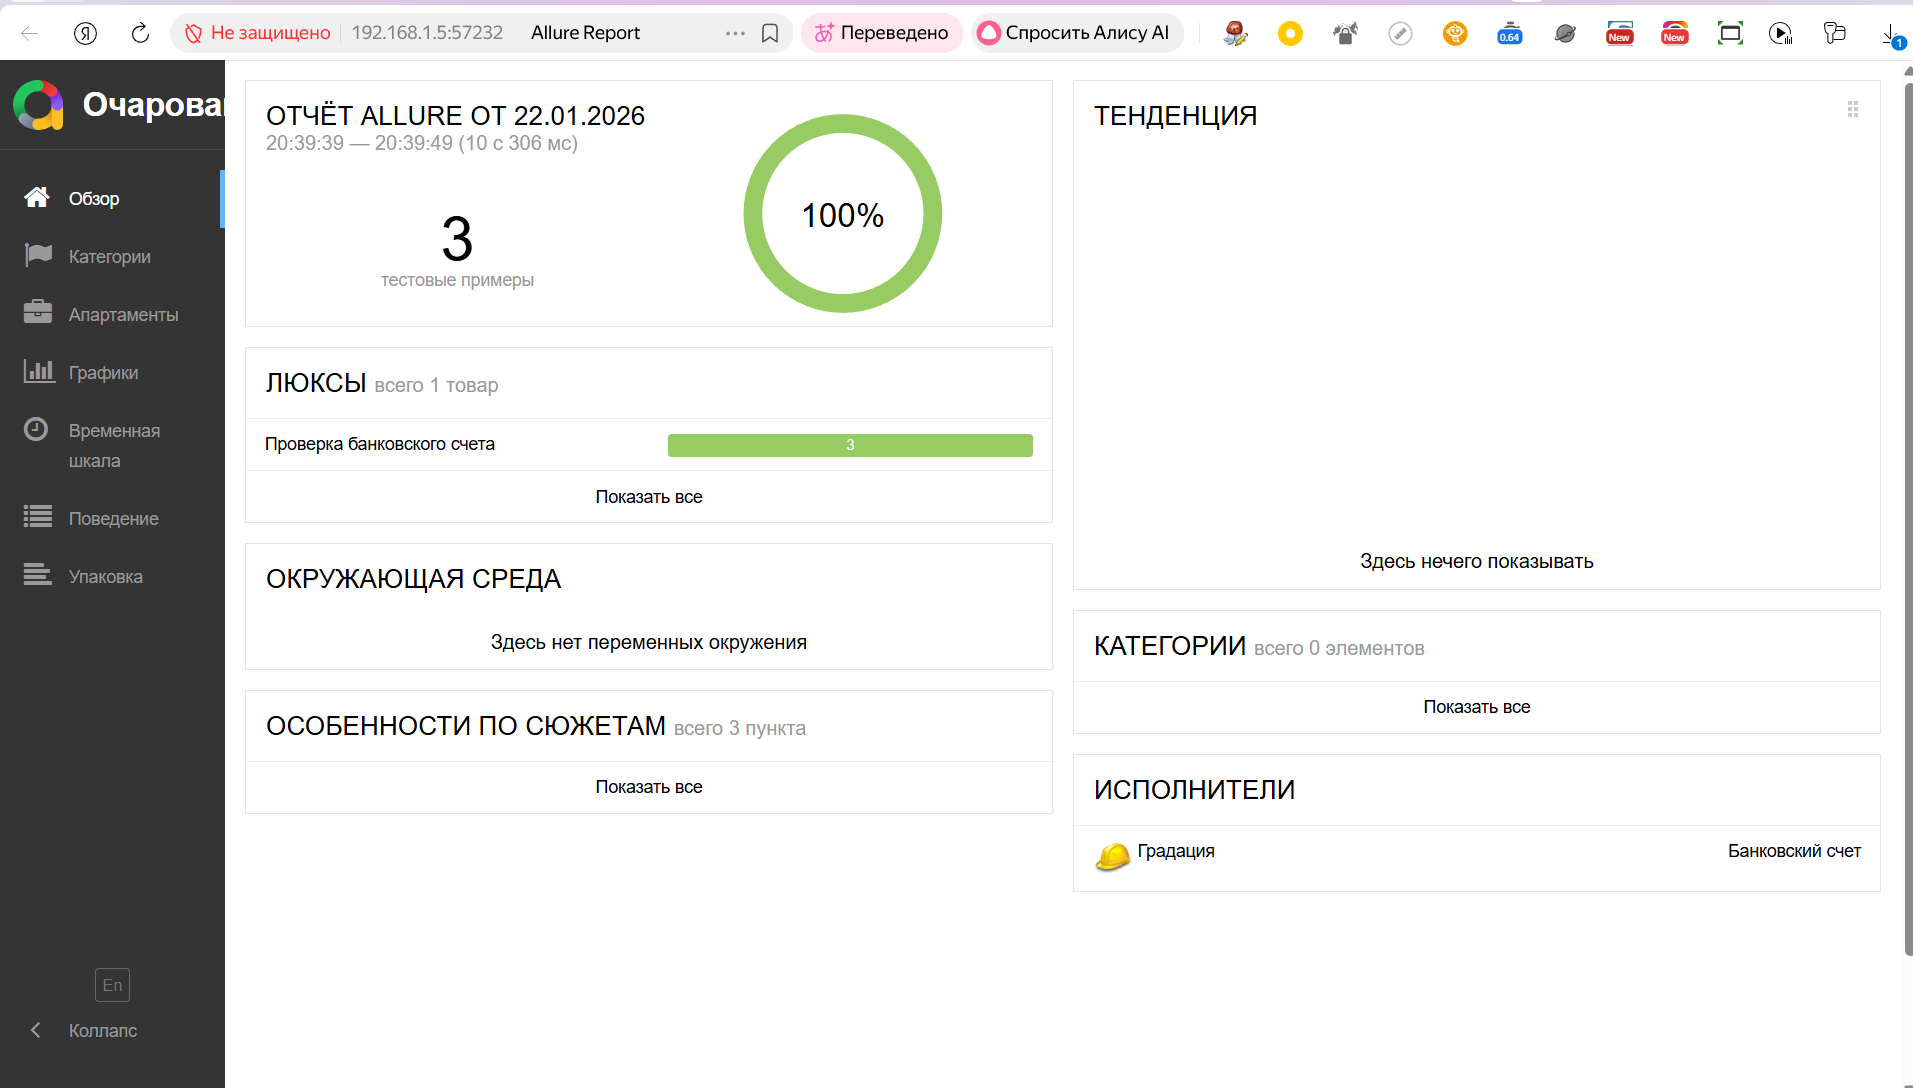
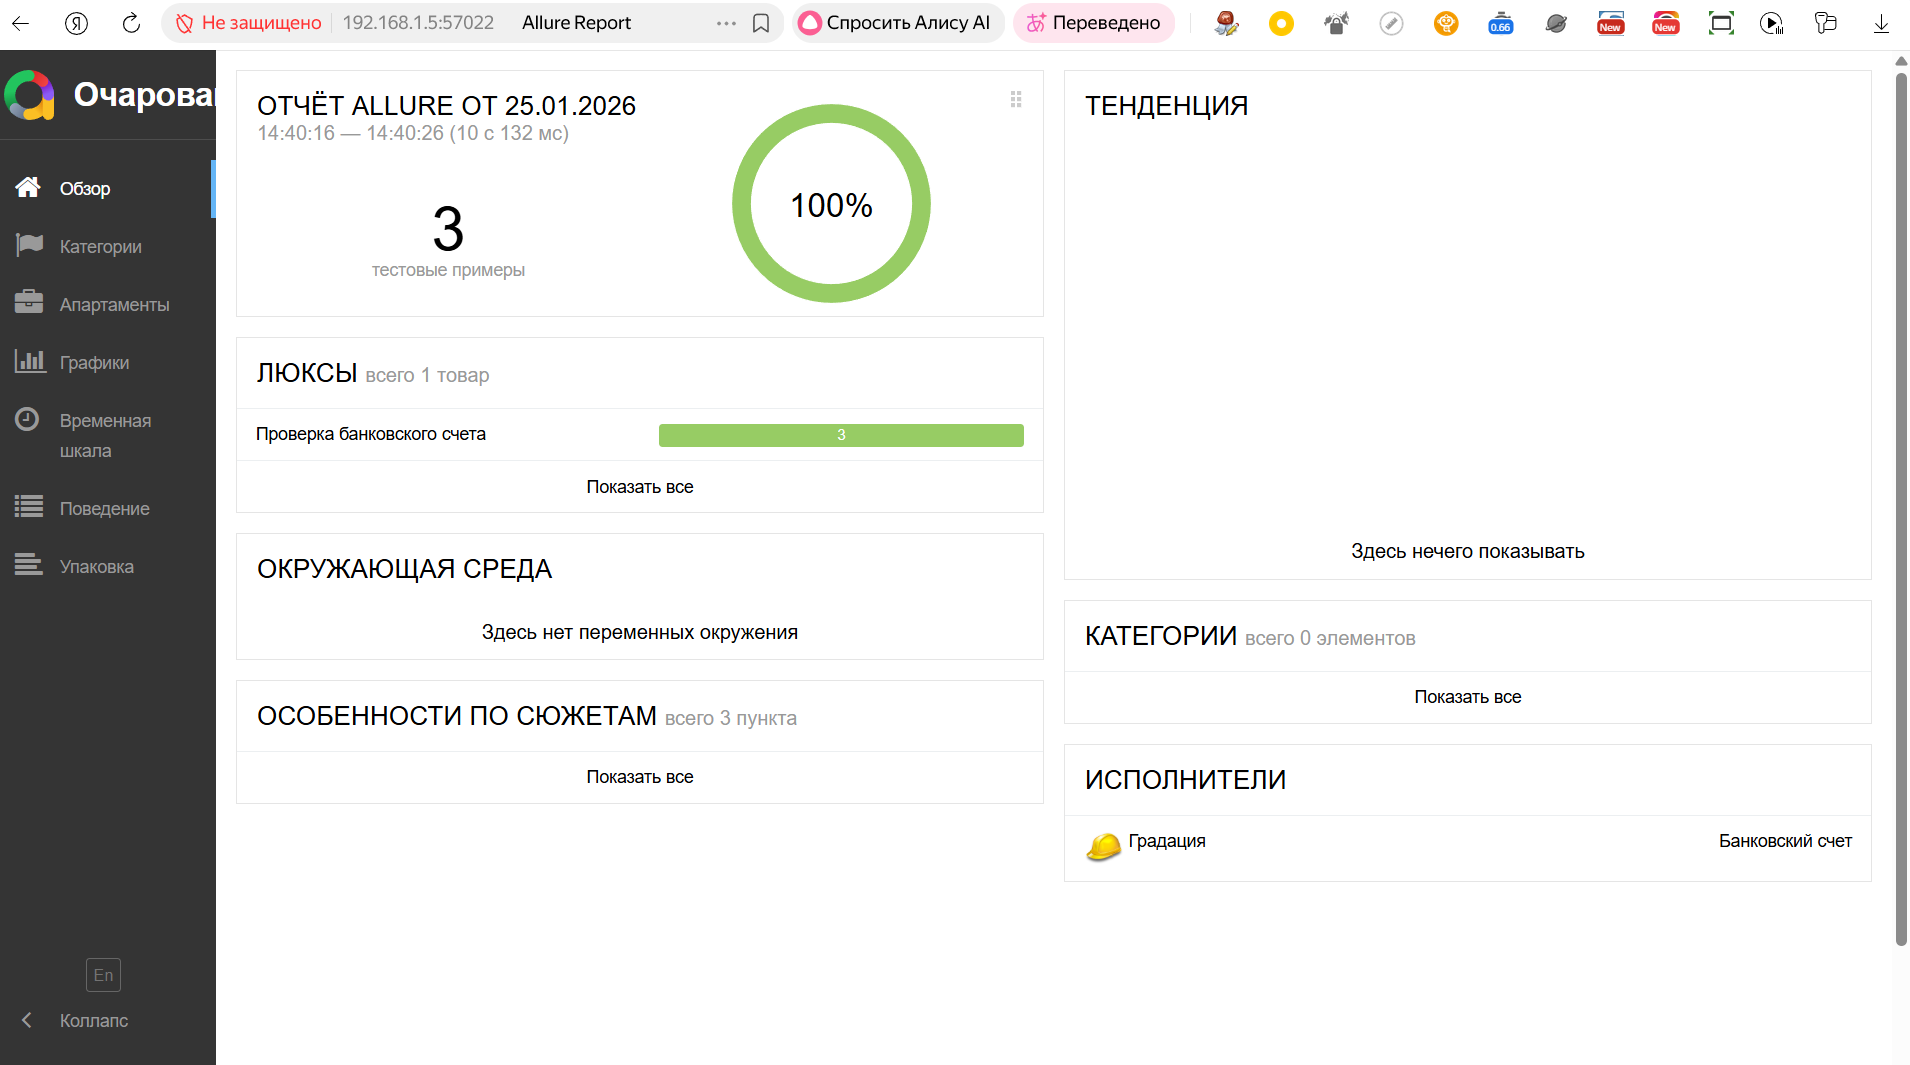
AllureSelenide

diff --git a/src/test/java/BankAccountTest.java b/src/test/java/BankAccountTest.java
@@ -1,6 +1,10 @@
 import com.codeborne.selenide.Condition;
 import com.codeborne.selenide.Configuration;
 import com.codeborne.selenide.Selenide;
+import com.codeborne.selenide.logevents.SelenideLogger;
+import io.qameta.allure.Epic;
+import io.qameta.allure.Feature;
+import io.qameta.allure.selenide.AllureSelenide;
 import org.junit.jupiter.api.*;
 import org.openqa.selenium.chrome.ChromeDriver;
 import org.openqa.selenium.chrome.ChromeOptions;
@@ -11,6 +15,11 @@ import static com.codeborne.selenide.Selenide.*;
 
 
 class BankAccountTest {
+    @BeforeAll
+    static void setUpAll() { SelenideLogger.addListener( "allure", new AllureSelenide()); }
+
+    @AfterAll
+    static void tearDownAll() { SelenideLogger.removeListener("allure"); }
     @BeforeEach
     void setup() {
         Selenide.open("http://localhost:9999");

diff --git a/README.md b/README.md
@@ -1,1 +1,1 @@
-[![Java CI with Gradle](https://github.com/LisinaSV/Bank-account/actions/workflows/gradle.yml/badge.svg)](https://github.com/LisinaSV/Bank-account/actions/workflows/gradle.yml)![img.png](img.png)![img_1.png](img_1.png)
+[![Java CI with Gradle](https://github.com/LisinaSV/Bank-account/actions/workflows/gradle.yml/badge.svg)](https://github.com/LisinaSV/Bank-account/actions/workflows/gradle.yml)!![img.png](img.png)![img_1.png](img_1.png)
